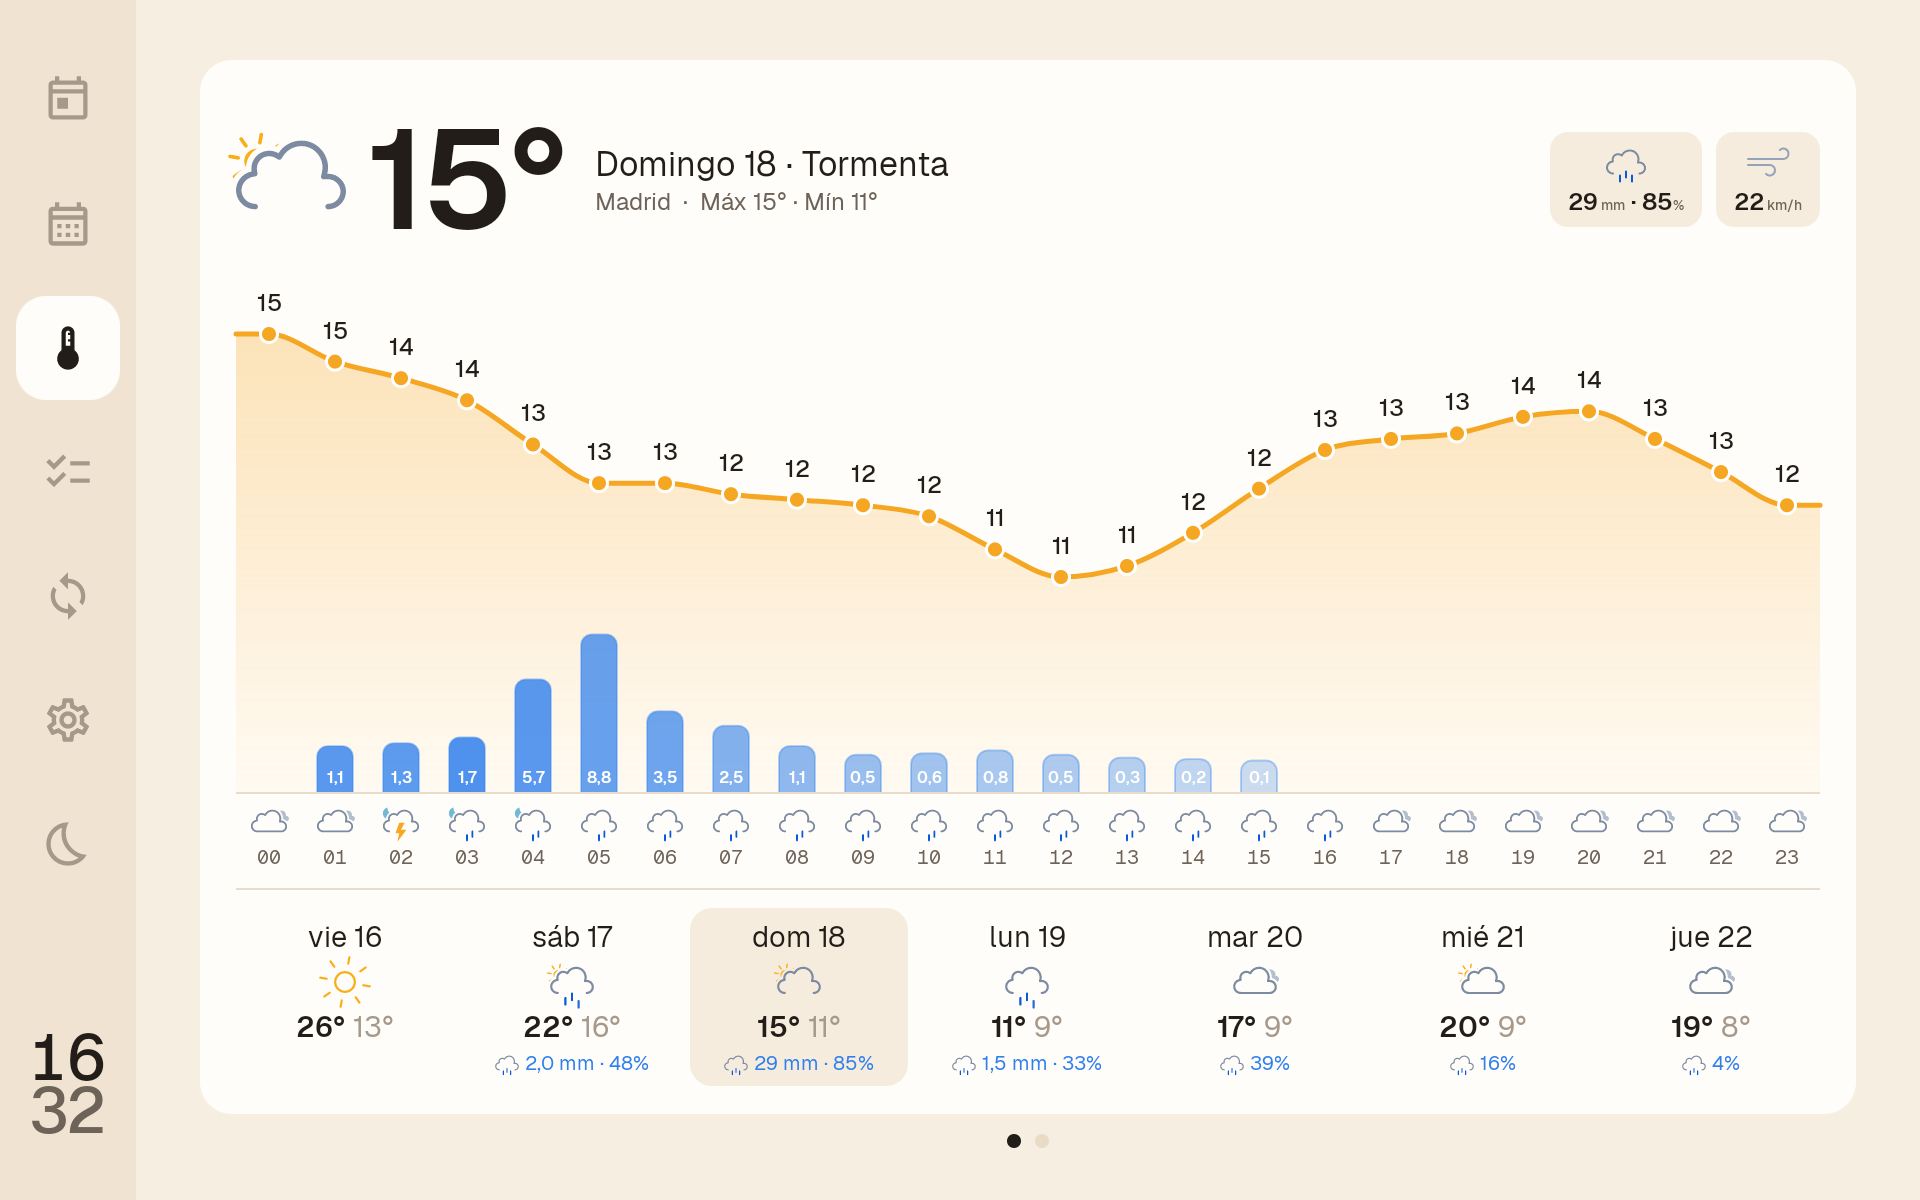
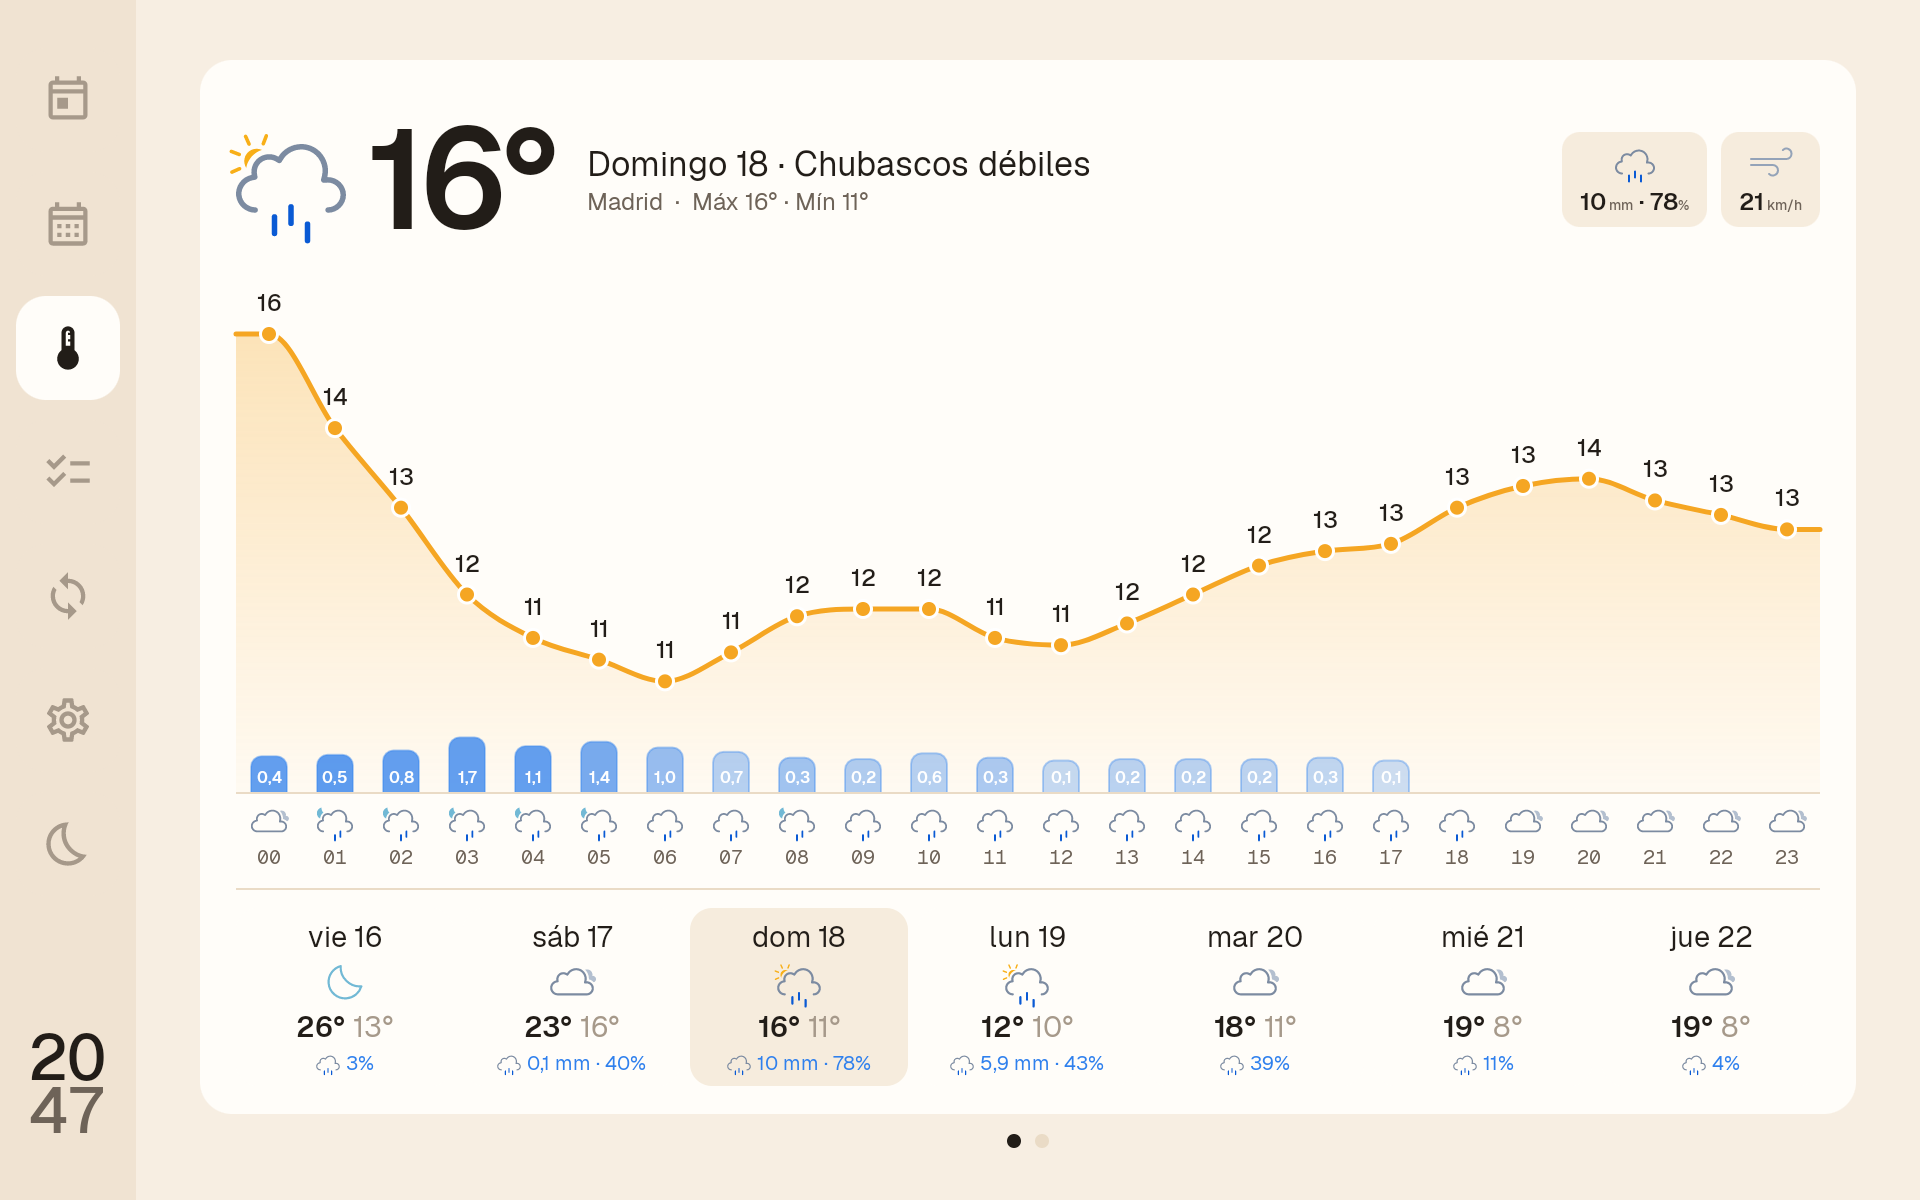
Tiempo: la curva de temperatura usa todo el alto que deja la lluvia
Las gráficas reservaban abajo el alto máximo de las barras de lluvia aunque no
lloviera, así que la curva quedaba aplastada: en Hoy, 13 y 26 grados a unos 55 px.
Ahora solo se deja el alto de la barra más alta del día (sin lluvia, ninguno), en
la gráfica por horas y en la de la semana siguiente. ARCHITECTURE y capturas al
día.

diff --git a/android/app/src/main/java/com/lito/planify/dashboard/ui/WeatherUi.kt b/android/app/src/main/java/com/lito/planify/dashboard/ui/WeatherUi.kt
@@ -171,8 +171,7 @@ private fun DrawScope.drawRain(
 ) {
     if (mm < 0.1) return
     val label = measurer.measure(amount, amountStyle)
-    val base = label.size.height + 10f
-    val height = base + (maxHeight - base).coerceAtLeast(0f) * (minOf(mm, full) / full).toFloat()
+    val height = rainBarHeight(label.size.height.toFloat(), maxHeight, mm, full)
     val color = if (mm >= heavy) RainHeavy else Palette.Rain
     val topLeft = Offset(x - width / 2, baseline - height)
     // Esquinas redondeadas solo arriba: la barra sale recta de la línea base
@@ -189,6 +188,19 @@ private fun DrawScope.drawRain(
 }
 
 private val RainHeavy = Color(0xFF1D4ED8)
+
+/** Alto de una barra de lluvia: el justo para su número ([labelHeight]) más lo proporcional a [mm], hasta [maxHeight]. */
+private fun rainBarHeight(labelHeight: Float, maxHeight: Float, mm: Double, full: Double): Float {
+    val base = labelHeight + 10f
+    return base + (maxHeight - base).coerceAtLeast(0f) * (minOf(mm, full) / full).toFloat()
+}
+
+/**
+ * Alto que la curva de temperatura deja libre abajo para la lluvia: el de la barra más alta más un margen, o nada si no
+ * hay ninguna (así, sin lluvia, la curva usa todo el alto y se ve bien la diferencia entre la mínima y la máxima).
+ */
+private fun DrawScope.rainSpace(measurer: TextMeasurer, style: TextStyle, maxHeight: Float, maxMm: Double, full: Double): Float =
+    if (maxMm < 0.1) 0f else rainBarHeight(measurer.measure("0", style).size.height.toFloat(), maxHeight, maxMm, full) + 16f
 
 /**
  * Lluvia de la hora que empieza en la columna [i]: Open-Meteo da la de la hora anterior (la de las 06 es de 05 a 06),
@@ -231,10 +243,10 @@ fun HourlyForecast(forecast: Forecast, now: LocalDateTime, modifier: Modifier = 
             fun x(i: Int) = column * i + column / 2
             val baseline = size.height - 2f
             val curveTop = 52f
-            // Con poco alto, la lluvia cede espacio para que la curva no se monte sobre las barras.
+            // Con poco alto, la lluvia cede espacio para que la curva no se monte sobre las barras (solo el que ocupan).
             // En Hoy la gráfica es baja: la lluvia se lleva más parte para que las barras se distingan
             val rainHeight = ((baseline - curveTop - 40f) * if (compact) 0.6f else 0.42f).coerceIn(0f, 200f)
-            val curveBottom = baseline - rainHeight - 40f
+            val curveBottom = baseline - rainSpace(measurer, mmStyle, rainHeight, rain.maxOf { it.first }, RAIN_FULL_MM) - 40f
             val minT = temps.min()
             val maxT = maxOf(temps.max(), minT + 1)
             fun y(t: Double) = curveBottom - (curveBottom - curveTop) * ((t - minT) / (maxT - minT)).toFloat()
@@ -501,7 +513,7 @@ fun DailyForecast(forecast: Forecast, dates: List<LocalDate>, modifier: Modifier
         val baseline = size.height - windHeight - 8f
         val rainHeight = (baseline * 0.32f).coerceAtMost(200f)
         val curveTop = 50f
-        val curveBottom = baseline - rainHeight - 60f
+        val curveBottom = baseline - rainSpace(measurer, mmStyle, rainHeight, mm.max(), RAIN_DAY_FULL_MM) - 60f
         val minT = lows.min()
         val maxT = maxOf(highs.max(), minT + 1)
         fun y(t: Double) = curveBottom - (curveBottom - curveTop) * ((t - minT) / (maxT - minT)).toFloat()

diff --git a/docs/ARCHITECTURE.md b/docs/ARCHITECTURE.md
@@ -19,7 +19,7 @@ Sin sesión iniciada se muestra el login (icono de Planify y formulario, centrad
 - **Máximas y mínimas:** salen de las 24 horas de cada día (`withDailyFromHourly`, una vez al recibir la previsión), para que el resumen, las cabeceras y las gráficas digan siempre lo mismo. Las diarias de Open-Meteo se calculan con más detalle que la hora en punto y no coincidían.
 - **Tareas:** todas las listas del dashboard en columnas.
 
-Las tarjetas llevan una cabecera común (`CardHeader`): icono en un cuadro tintado, título y el total en una píldora del mismo color. En las gráficas del tiempo, la barra de lluvia mide la **cantidad**, no la probabilidad: el alto parte del justo para el número de mm, que va dentro, abajo y en blanco, y crece en proporción a la cantidad hasta llenarse con 10 mm en una hora (30 mm en un día; desde 15 mm en una hora, un azul más intenso). La opacidad del relleno es la probabilidad, sin número: maciza al 100 % y vacía al 0 %, con un contorno suave siempre para que se vea la barra. En Hoy, la lluvia se lleva más alto de la gráfica (el 60 %) para que las barras se distingan. Sin lluvia apreciable (menos de 0,1 mm) no hay barra. Open-Meteo da la lluvia de la hora anterior, así que cada columna enseña la de la hora que empieza en ella (la de las 05, de 05 a 06). La cabecera y los días llevan también el total del día en mm: primero los mm y después el % (en los días, nada si es un 0 %). Las listas que no caben se desvanecen en el borde (`fadingScroll`) en vez de cortar el texto. Las tarjetas sin contenido muestran un estado vacío (`EmptyState`): icono en círculos del color de la tarjeta, título y una línea.
+Las tarjetas llevan una cabecera común (`CardHeader`): icono en un cuadro tintado, título y el total en una píldora del mismo color. En las gráficas del tiempo, la barra de lluvia mide la **cantidad**, no la probabilidad: el alto parte del justo para el número de mm, que va dentro, abajo y en blanco, y crece en proporción a la cantidad hasta llenarse con 10 mm en una hora (30 mm en un día; desde 15 mm en una hora, un azul más intenso). La opacidad del relleno es la probabilidad, sin número: maciza al 100 % y vacía al 0 %, con un contorno suave siempre para que se vea la barra. En Hoy, la lluvia se lleva más alto de la gráfica (el 60 %) para que las barras se distingan. La curva de temperatura solo deja abajo el alto de la barra más alta (sin lluvia, ninguno), así que usa todo el alto que puede y se ve bien la diferencia entre la mínima y la máxima. Sin lluvia apreciable (menos de 0,1 mm) no hay barra. Open-Meteo da la lluvia de la hora anterior, así que cada columna enseña la de la hora que empieza en ella (la de las 05, de 05 a 06). La cabecera y los días llevan también el total del día en mm: primero los mm y después el % (en los días, nada si es un 0 %). Las listas que no caben se desvanecen en el borde (`fadingScroll`) en vez de cortar el texto. Las tarjetas sin contenido muestran un estado vacío (`EmptyState`): icono en círculos del color de la tarjeta, título y una línea.
 - **Reloj nocturno** (`NightScreen`): fuera de horario, si no se ha elegido apagar la pantalla, la hora, la fecha y el tiempo de ahora en negrita y en blanco sobre negro (el icono del tiempo, teñido de blanco), estáticos, con el brillo al mínimo (`MainActivity` pone `screenBrightness` a 1/255 mientras `UiState.night`). Tocar enseña el dashboard 5 minutos (`peekUntil`). La luna de la barra lateral también lo activa si está el reloj nocturno (`nightNow`, hasta que se toque o hasta el siguiente encendido); si no, apaga la pantalla con `lockNow()`.
 - **Ajustes:**
   - tres columnas que caben sin desplazamiento;
